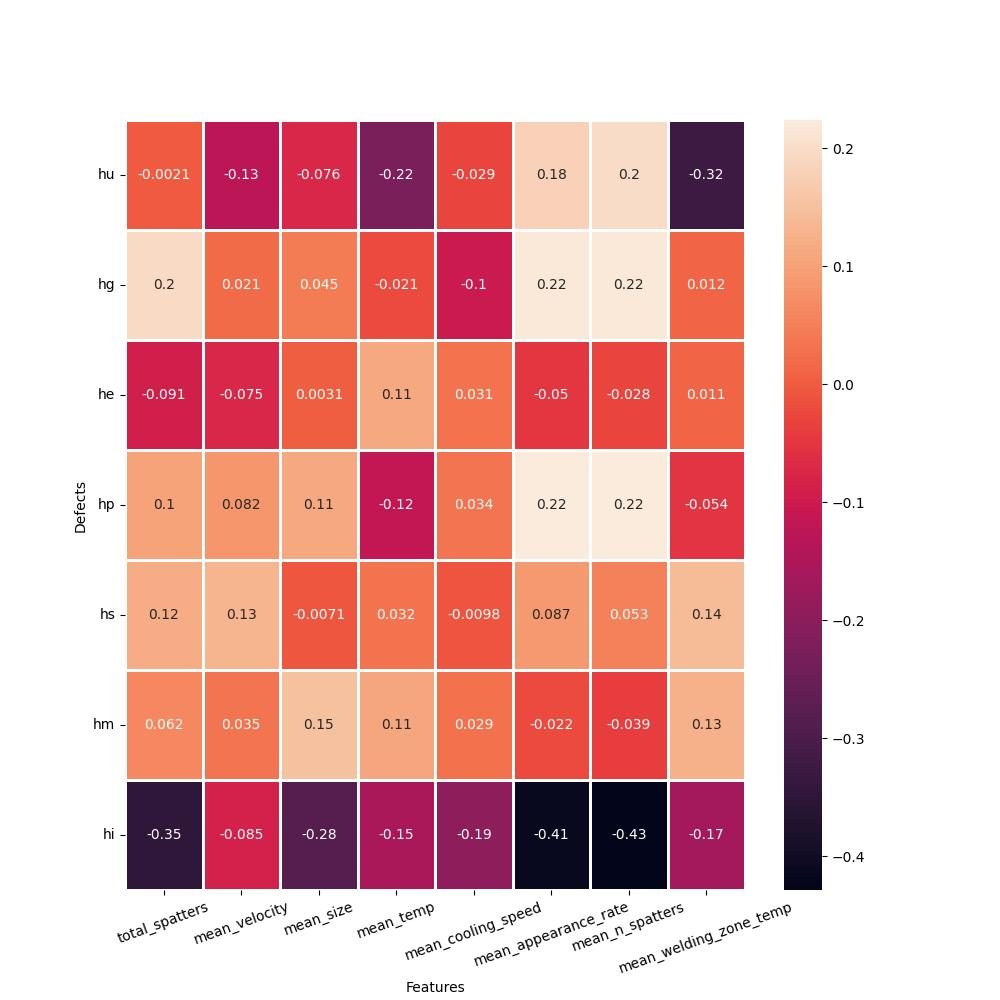
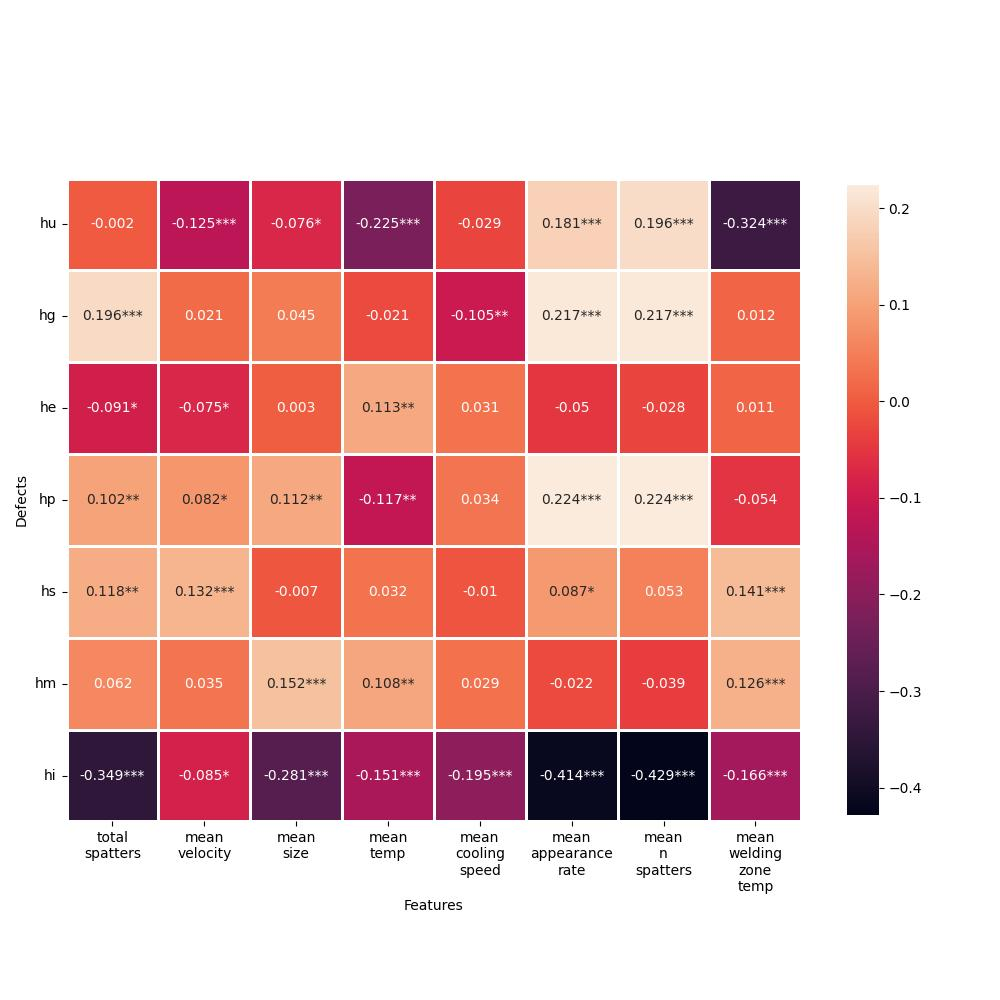
Updated annotations to correlation heatmap

diff --git a/thermograms_analysis/correlation.py b/thermograms_analysis/correlation.py
@@ -34,21 +34,30 @@ plt.close()
 classes = ['hu', 'hg', 'he','hp', 'hs', 'hm', 'hi']
 #classes = ['hi']
 out_corr = []
+out_p = []
 for cl in classes:
     data, y = prepare_dataset('thermograms_analysis/metrics_40.json', class_id=cl, clf=False)
     data = data.to_numpy()
     y = y.to_numpy()
     for i in range(data.shape[1]):
-        corr = spearmanr(data[:, i], y).statistic
-        out_corr.append(corr)
+        corr = spearmanr(data[:, i], y)
+        out_corr.append(corr.statistic)
+        out_p.append(corr.pvalue)
 
 
 out_corr = np.array(out_corr).reshape(len(classes), -1)
-
+out_p = np.array(out_p).reshape(len(classes), -1)
+# add anotations to heatmap
+annot = out_corr.round(3).astype(str)
+for p in (0.05, 0.01, 0.001):
+    annot = np.where(out_p < p, np.char.add(annot, '*'), annot)
+columns = ['\n'.join(col.split('_')) for col in columns]
 plt.figure(figsize=(10, 10))
-ax = sns.heatmap(out_corr, linewidths=1, xticklabels=columns, yticklabels=classes, annot=True)
+ax = sns.heatmap(out_corr, linewidths=1, xticklabels=columns, yticklabels=classes, annot=annot, fmt='', square=True, cbar_kws={"shrink": 0.65})
 ax.set_xlabel('Features')
 ax.set_ylabel('Defects')
+print(out_p)
 plt.yticks(rotation=0)
-plt.xticks(rotation=20)
+plt.xticks(rotation=0)
+plt.tight_layout()
 plt.savefig('thermograms_analysis/figures/correlation.jpg')
